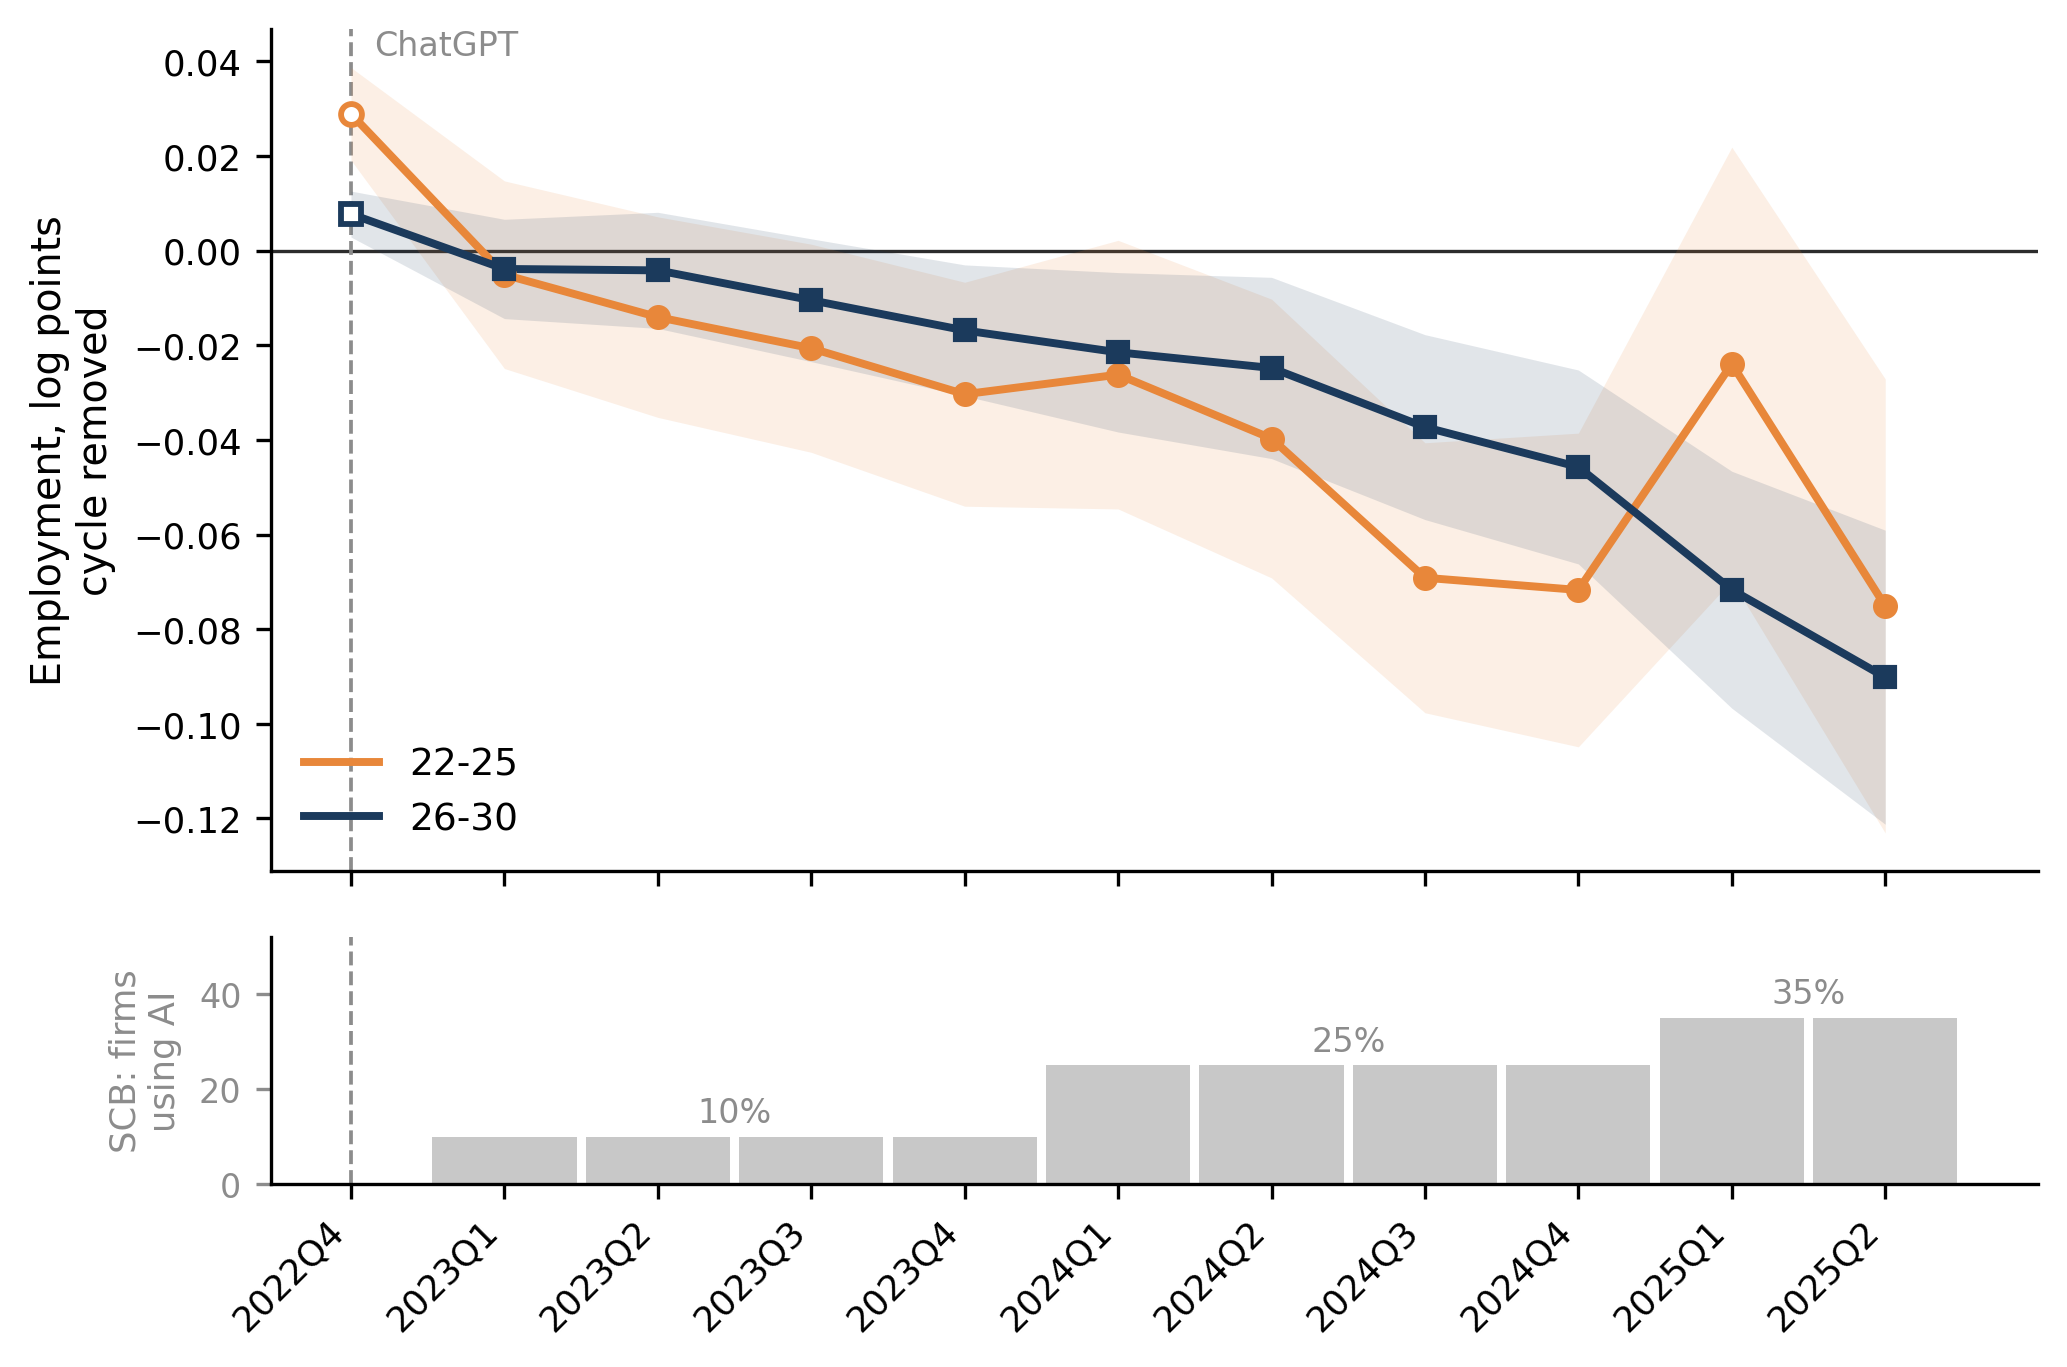
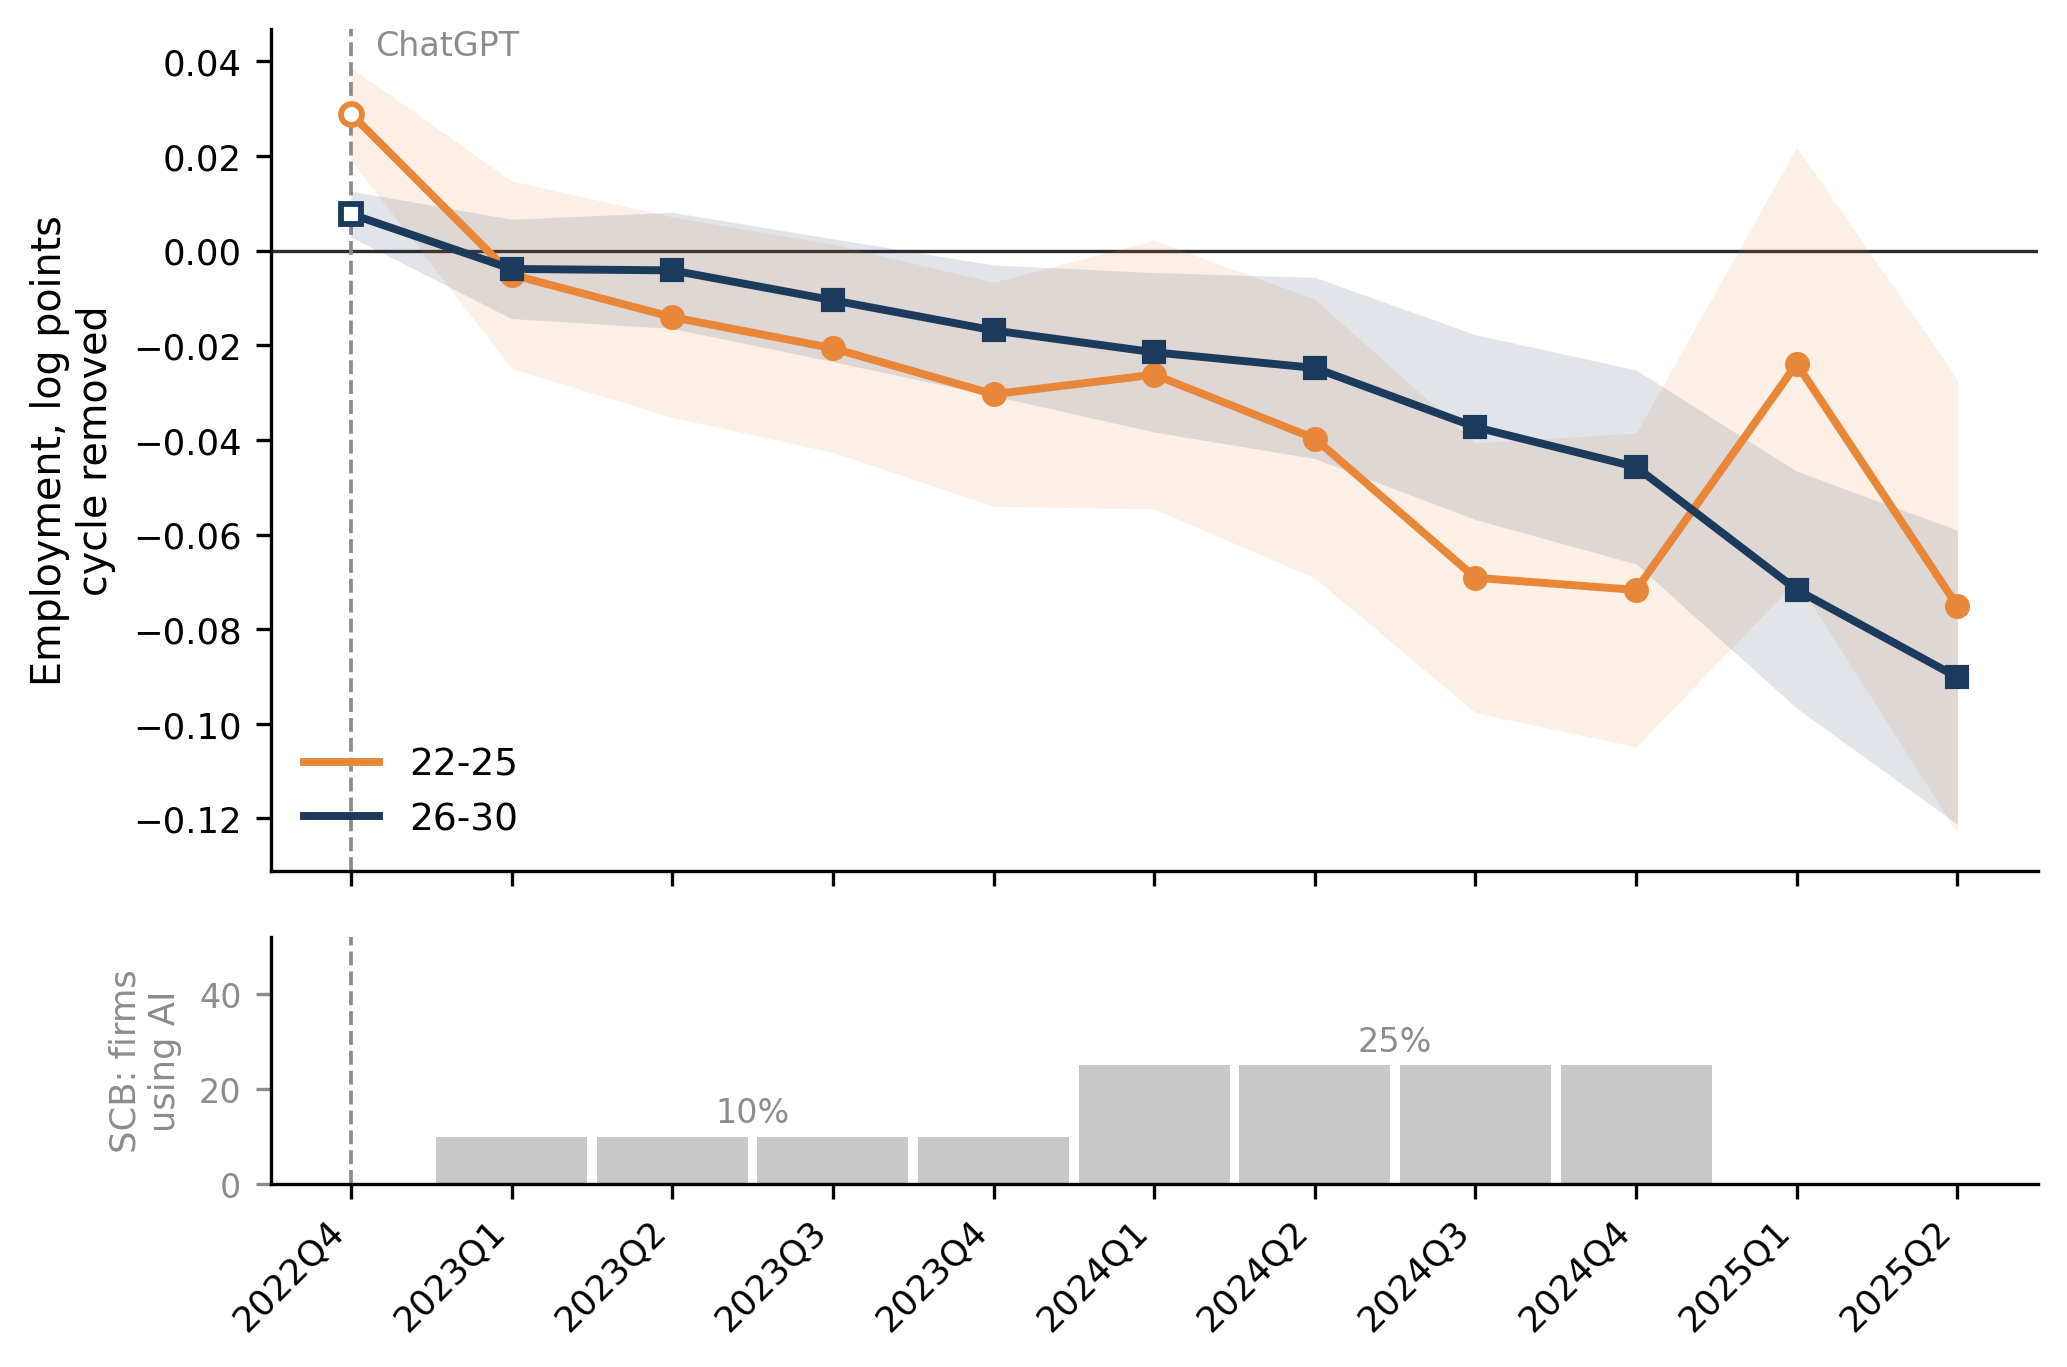
Builders: drop the uncited 2025 adoption bar, correct the eligibility wording
l39 hard-coded a 35 per cent AI-use bar for 2025 into Figure 3. It was
cited nowhere and breaks ML's ruling that no figure carries an adoption
number later than 2024.

l43's note called the panel screen a pre-treatment property. It is
evaluated over the whole window, so it is not one, and the note now says
what it is.

Claude-Session: https://claude.ai/code/session_01Ne4TL9xKpGBakALMCR9kK6

diff --git a/revision/tables/tableI2_sumstats_employment.tex b/revision/tables/tableI2_sumstats_employment.tex
@@ -24,6 +24,6 @@ Band & Outcome & Balanced cells & Zero throughout & Skeleton & Estimated \\
 \multicolumn{3}{l}{Contrast by field of education, three bands} & \multicolumn{2}{l}{holds 41--49, 22--25 or 26--30} & 110,653 \\
 \bottomrule
 \end{tabular}
-\begin{minipage}{0.95\textwidth}\footnotesize\vspace{4pt}The panel is balanced over employers, age bands and months and zero-filled, so \textbf{a firm whose young headcount falls to zero contributes those months}: the extensive margin is in the estimate, which is why Poisson rather than a log transform. ``Zero throughout'' counts employer-band cells with no employment in any month of the window; these are perfectly predicted by the employer-by-age effect and fixest separates them regardless, so they are removed before estimation at no cost to any coefficient. The first three columns are counted before the exposure merge and so are the same whatever the score. ``Skeleton'' is what remains, and ``Estimated'' the cells surviving the merge with the employer's 2019 occupation mix. A firm enters only if it holds the young band and at least one older band at some point from January 2021, which is a pre-treatment property and not an outcome. Exposure is scored for 262{,}089 firms. The paper reports the flow margins at 22--25 only, so the two 26--30 flow rows carry a skeleton and no estimate; nothing is carried across from another score. Panel~B is why the employer counts differ across the paper's exhibits. A within-employer age comparison can only be identified by an employer that holds both of the ages being compared, so each comparison has its own panel. The headline panels are anchored on the young band, the profile panels on the reference band 41--49; the profile panels therefore include employers with no worker aged 22--25 at all, whose cells are zero throughout and which contribute nothing to that band's coefficient. A count printed beside a profile estimate is the panel's and not the number of employers identifying that coefficient, and the two are not comparable. The widest row imposes no age requirement at all.
+\begin{minipage}{0.95\textwidth}\footnotesize\vspace{4pt}The panel is balanced over employers, age bands and months and zero-filled, so \textbf{a firm whose young headcount falls to zero contributes those months}: the extensive margin is in the estimate, which is why Poisson rather than a log transform. ``Zero throughout'' counts employer-band cells with no employment in any month of the window; these are perfectly predicted by the employer-by-age effect and fixest separates them regardless, so they are removed before estimation at no cost to any coefficient. The first three columns are counted before the exposure merge and so are the same whatever the score. ``Skeleton'' is what remains, and ``Estimated'' the cells surviving the merge with the employer's 2019 occupation mix. A firm enters only if it holds the young band and at least one older band at some point from January 2021. That condition is evaluated over the whole window rather than over the pre-treatment months alone, so it is not a pre-treatment screen; it is weak, since one month with one worker in each band satisfies it. Exposure is scored for 262{,}089 firms. The paper reports the flow margins at 22--25 only, so the two 26--30 flow rows carry a skeleton and no estimate; nothing is carried across from another score. Panel~B is why the employer counts differ across the paper's exhibits. A within-employer age comparison can only be identified by an employer that holds both of the ages being compared, so each comparison has its own panel. The headline panels are anchored on the young band, the profile panels on the reference band 41--49; the profile panels therefore include employers with no worker aged 22--25 at all, whose cells are zero throughout and which contribute nothing to that band's coefficient. A count printed beside a profile estimate is the panel's and not the number of employers identifying that coefficient, and the two are not comparable. The widest row imposes no age requirement at all.
 \end{minipage}
 \end{table}

diff --git a/revision/local/l43_tab_sumstats_v3.py b/revision/local/l43_tab_sumstats_v3.py
@@ -244,8 +244,11 @@ def main() -> int:
             r"score. ``Skeleton'' is what remains, and ``Estimated'' the "
             r"cells surviving the merge with the employer's 2019 occupation "
             r"mix. A firm enters only if it holds the young band and at "
-            r"least one older band at some point from January 2021, which is "
-            r"a pre-treatment property and not an outcome. Exposure is "
+            r"least one older band at some point from January 2021. That "
+            r"condition is evaluated over the whole window rather than over "
+            r"the pre-treatment months alone, so it is not a pre-treatment "
+            r"screen; it is weak, since one month with one worker in each "
+            r"band satisfies it. Exposure is "
             rf"scored for {tex_thousands(n_scored)} firms.")
     if missing_fit:
         note += (r" The paper reports the flow margins at 22--25 only, so "

diff --git a/revision/local/l39_fig_spreading_v3.py b/revision/local/l39_fig_spreading_v3.py
@@ -57,8 +57,12 @@ from config import DARK_BLUE, ORANGE, GRAY, LIGHT_GRAY, DARK_TEXT  # noqa: E402
 
 PAPER = REV.parents[1] / "canaries-sweden-paper"
 # Statistics Sweden's firm AI-use series, published and not estimated
-# here, as in l14.
-SCB_ADOPTION = {"2023": 10, "2024": 25, "2025": 35}
+# here, as in l14. 2025 IS DELIBERATELY EXCLUDED: ML ruled on 23 September
+# 2026 that no figure in the paper carries an adoption number later than
+# 2024, because the argument for dating the window to January 2024 rests
+# on the 2023-to-2024 change and a 2025 bar invites a question the paper
+# does not need. The bar was drawn and cited nowhere.
+SCB_ADOPTION = {"2023": 10, "2024": 25}
 LAUNCH_Q = "2022Q4"
 # Lane 30's export. The folder is named on the day it is filed; pass it
 # on the command line until this constant is updated to match.
